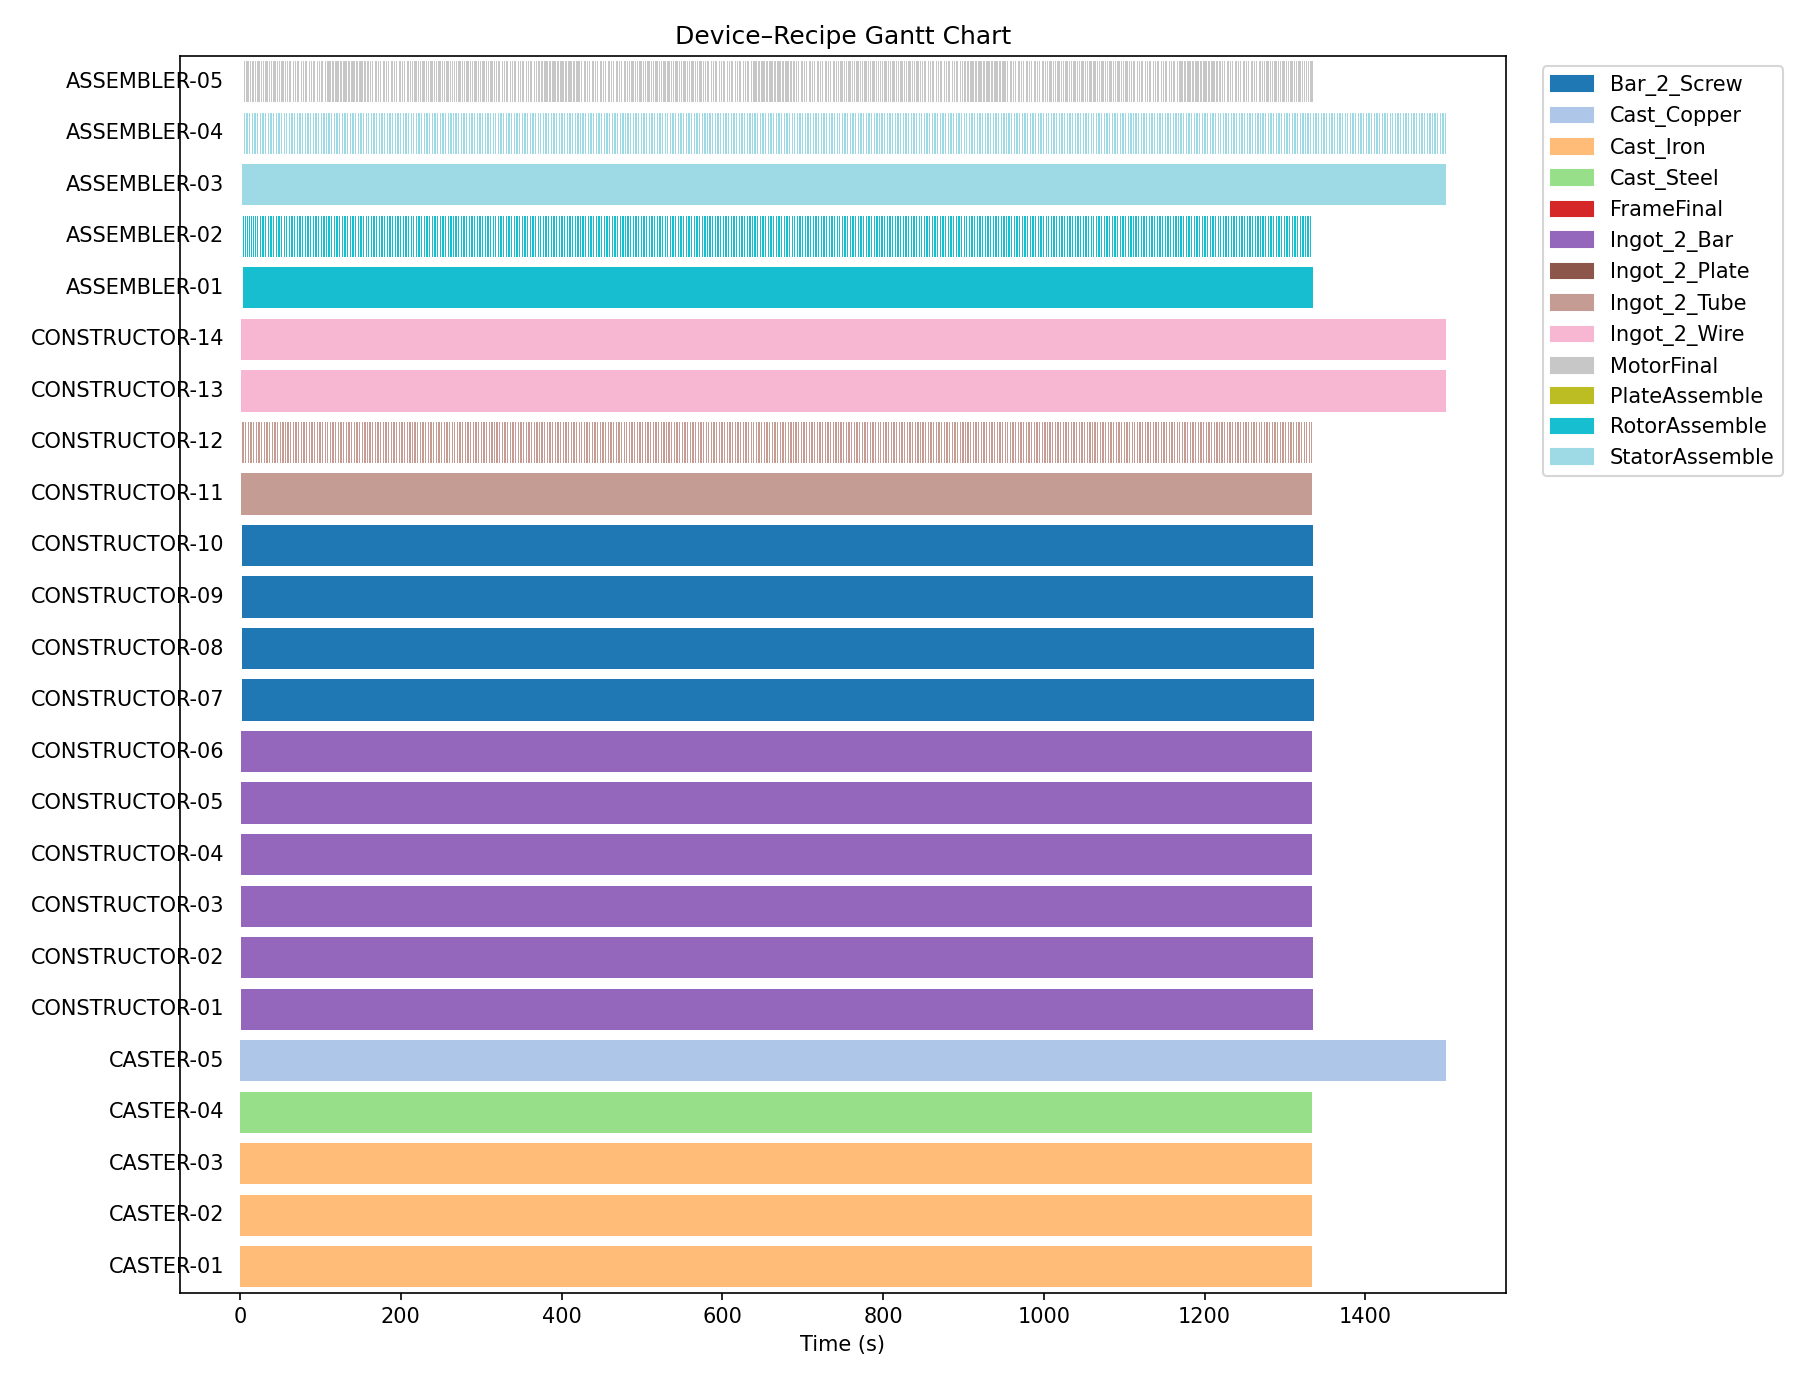
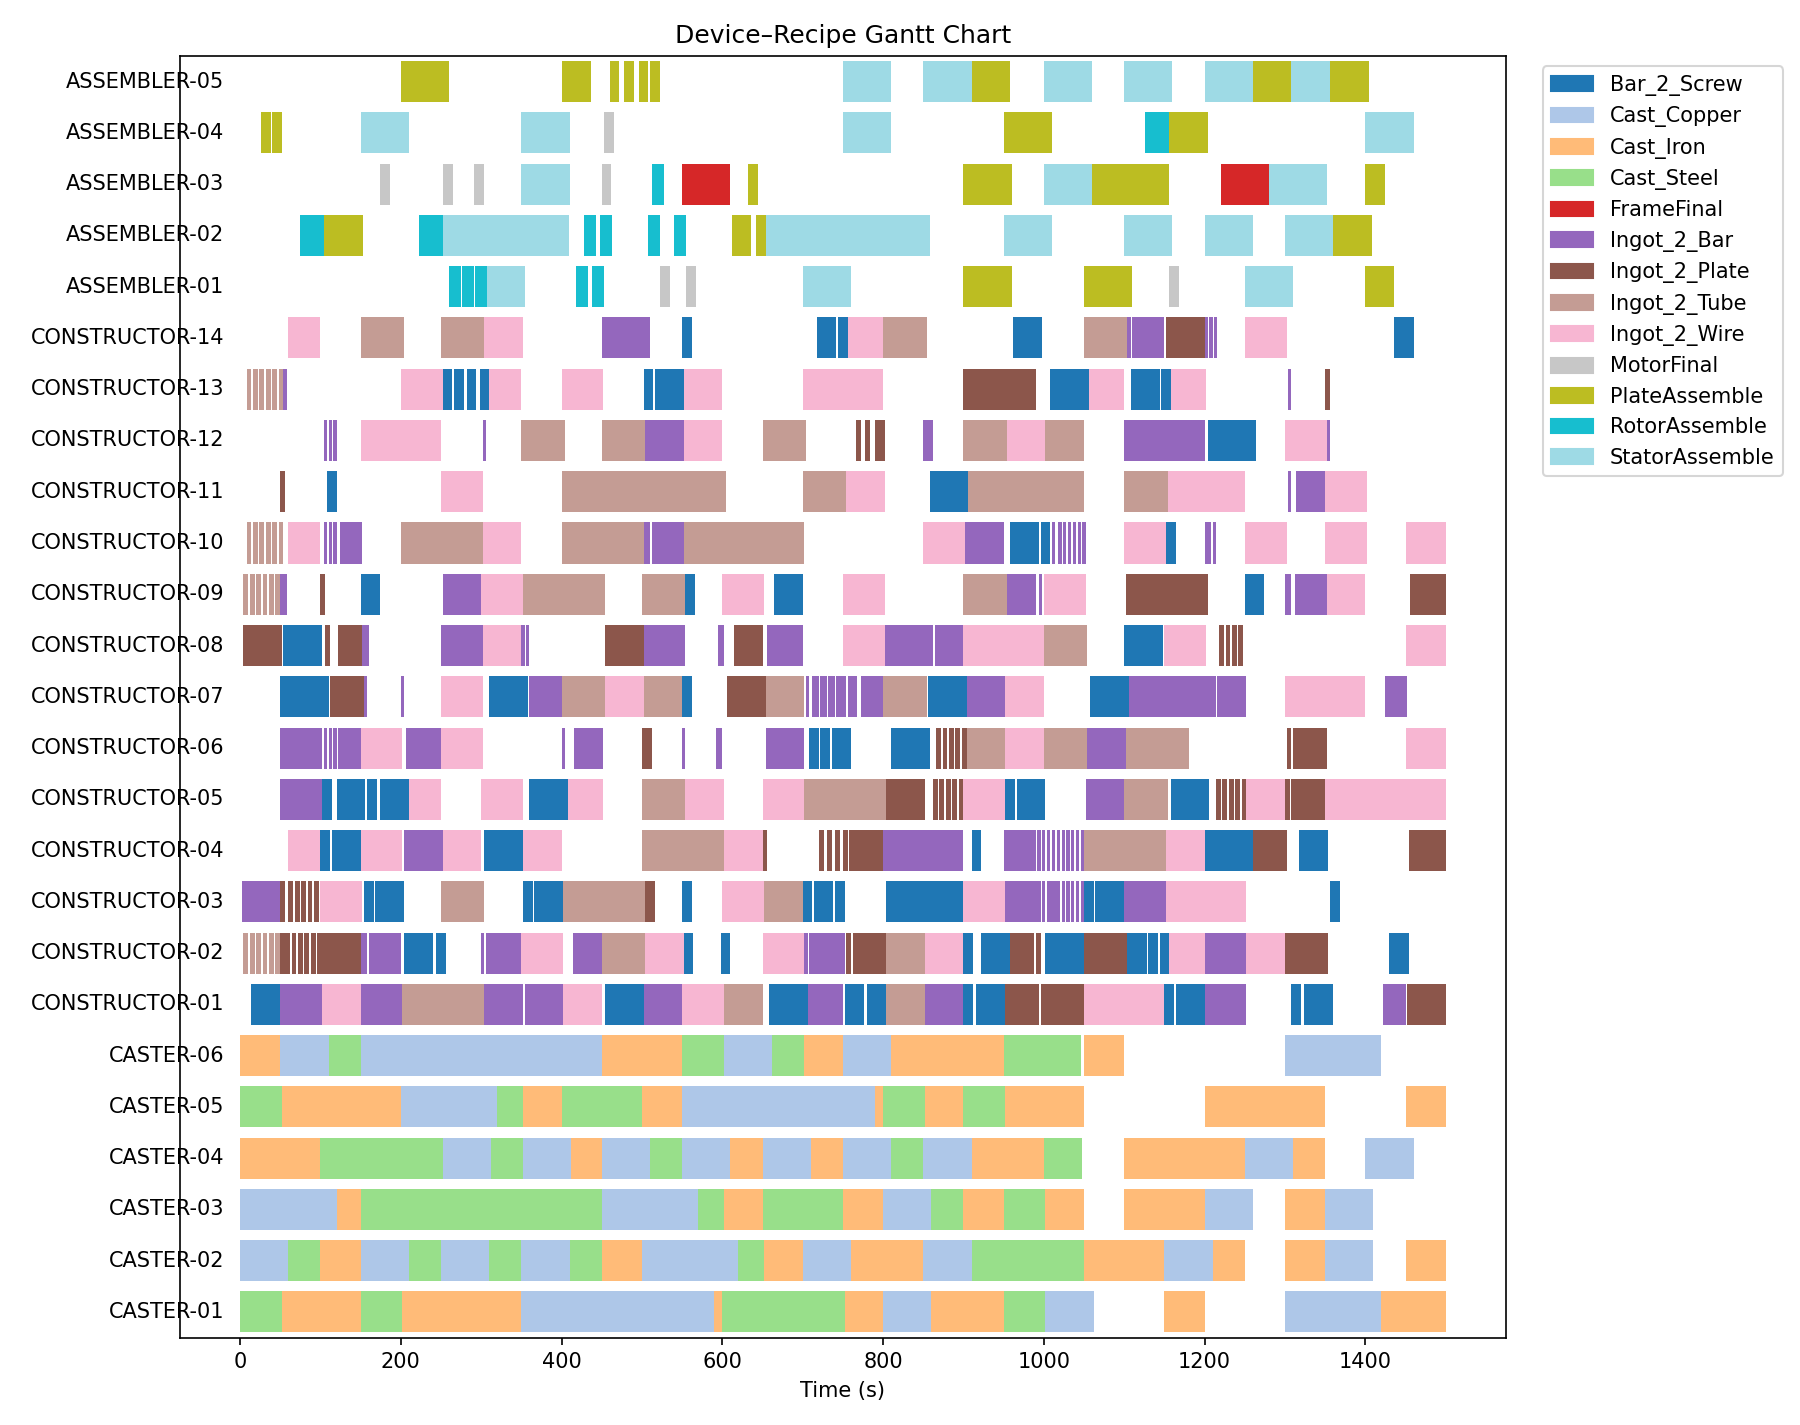
随机调度实现

diff --git a/pycode/factory_sim.py b/pycode/factory_sim.py
@@ -4,6 +4,7 @@ from typing import Literal
 
 from pycode.OrderManagerRuntime import OrderManagerRuntime
 from pycode.PriceManagerRuntime import PriceManagerRuntime
+from pycode.Scheduler import Scheduler
 from pycode.StockManagerRuntime import StockManagerRuntime
 from pycode.data_class import Device, Recipe
 from pycode.dev_runtime import DevState
@@ -35,7 +36,6 @@ class FactorySim:
         :param schedule_mode: 是否以调度方式启动。无调度意味着只要原料足够就开机运转。
         """
         """复制传入参数为属性"""
-        self.runtime_bind_of_device_id_and_rcp_name_dict = init_bind_of_device_id_and_rcp_name_dict
         self.schedule_mode = schedule_mode
         self.dt = dt
 
@@ -57,6 +57,11 @@ class FactorySim:
         self.price_mng = PriceManagerRuntime(init_price_name_and_spec_dict)
         # 运行时Order管理器
         self.order_mng = OrderManagerRuntime(init_order_list)
+        # Scheduler调度器
+        self.scheduler = Scheduler(
+            schedule_mode=schedule_mode,
+            bind_of_device_id_and_rcp_name_dict=init_bind_of_device_id_and_rcp_name_dict,
+        )
 
         # 字典，设备id -> Runtime obj
         self.dev_id_and_dev_runtime_dict = build_dict_of_dev_id_and_dev_runtime_obj(
@@ -81,43 +86,20 @@ class FactorySim:
         """历史记录管理器"""
         self.history_recorder = HistoryRecorder()
 
-    def apply_actions(self, action_dict: dict[str, str | None]):
-        """
-        action_dict: {device_id: recipe_name 或 'OFF' 或 None}, None表示这台机器维持原先的调度不作调整, 'OFF'关机
-        只有当设备处于 IDLE 且 action 指定了合法配方，才切换它的 recipe 属性。
-        """
-        assert action_dict is not None
-        for dev_id, act in action_dict.items():
-            dev_rt = self.dev_id_and_dev_runtime_dict.get(dev_id)
-            if (
-                    dev_rt is None
-                    or act is None
-                    or act == "OFF"  # TODO 不能在关机时不能调度
-                    or dev_rt.state is not DevState.IDLE  # TODO 不能只在IDLE状态才允许调度
-            ):
-                continue
-            # 验证这台设备类别允许做该配方
-            cat = dev_rt.device.category
-            if act not in self.dev_category_and_rcp_name_dict[cat]:
-                raise ValueError(f"{dev_id}({cat}) 不支持配方 {act}")
-            # 切到新配方
-            dev_rt.recipe = self.recipe_name_and_obj_dict[act]
-            # TODO devruntime里的配方也要改
-
     def record_dev_status(self):
         h = self.history_recorder
         # 设备运行状态与甘特
-        for dev_id, rt in self.dev_id_and_dev_runtime_dict.items():
-            h.log_vector("dev_state", dev_id, rt.state.name)
+        for dev_id, dev_rt in self.dev_id_and_dev_runtime_dict.items():
+            h.log_vector("dev_state", dev_id, dev_rt.state.name)
             h.log_vector(
                 "gantt",
                 dev_id,
-                rt.recipe.name
-                if rt.state is DevState.RUNNING
+                dev_rt.bind_recipe.name
+                if dev_rt.state is DevState.RUNNING
                 else None
             )
-
     # ----- main loop -------------------------------------------------------- --
+
     def record_step_status_without_dev(self):
         h = self.history_recorder
         h.log_scalar("time", self.clock)
@@ -156,13 +138,6 @@ class FactorySim:
         return (f"[t={self.clock:4}s] stock({sums}) | devs({devs}) | "
                 f"energy={self.total_energy_kwh_used:,.2f} kWh")
 
-    def do_schedule(self, action_dict: dict | None):
-        """决定本次step的所有设备的状态"""
-        if self.schedule_mode == "greedy":
-            pass
-        else:
-            self.apply_actions(action_dict)
-
     # ----- reporting -------------------------------------------------------- --
     def run_one_step_after_schedule(self):
         if self.clock == 59:
@@ -181,7 +156,7 @@ class FactorySim:
         for dev_rt in self.dev_id_and_dev_runtime_dict.values():
             if dev_rt.state is DevState.RUNNING:
                 # 本步消耗 = 功率(kW)×(dt秒 ÷ 3600秒/时)
-                self.step_energy_kwh_used += dev_rt.recipe.power_kw * (self.dt / 3600)
+                self.step_energy_kwh_used += dev_rt.bind_recipe.power_kw * (self.dt / 3600)
 
         # tick all devices，用 dt 推进
         for dev_rt in self.dev_id_and_dev_runtime_dict.values():
@@ -215,8 +190,12 @@ class FactorySim:
         # 所有步累计余额变化
         self.total_balance += self.step_balance
 
-    def do_schedule_and_run_for_this_step(self, action_dict: dict | None):
-        self.do_schedule(action_dict=action_dict)
+    def do_schedule_and_run_for_this_step(self):
+        self.scheduler.do_schedule(
+            dev_id_and_dev_runtime_dict=self.dev_id_and_dev_runtime_dict,
+            dev_category_and_rcp_name_dict=self.dev_category_and_rcp_name_dict,
+            recipe_name_and_obj_dict=self.recipe_name_and_obj_dict,
+        )
         self.run_one_step_after_schedule()
         self.check_out_money()
         self.record_step_status_without_dev()

diff --git a/pycode/Scheduler.py b/pycode/Scheduler.py
@@ -1,0 +1,92 @@
+import copy
+import random
+
+from pycode.dev_runtime import DevState
+
+
+class Scheduler:
+    def __init__(
+            self,
+            schedule_mode,
+            bind_of_device_id_and_rcp_name_dict: dict | None,
+    ):
+        self.schedule_mode = schedule_mode
+        # 以bind_of_device_id_and_rcp_name_dict，生成schedule的模板
+        self.schedule: dict | None = bind_of_device_id_and_rcp_name_dict
+        self.runtime_bind_of_device_id_and_rcp_name_dict = copy.copy(
+            bind_of_device_id_and_rcp_name_dict
+        )
+
+        self.tst_cnt = 0
+
+    def do_schedule(
+            self,
+            dev_id_and_dev_runtime_dict,
+            dev_category_and_rcp_name_dict,
+            recipe_name_and_obj_dict,
+    ):
+        """决定本次step的所有设备的状态
+        action_dict: {device_id: recipe_name 或 None}, None表示这台机器维持原先的调度不作调整
+        只有当设备处于 IDLE 且 action 指定了合法配方，才切换它的 recipe 属性。
+        """
+        if self.schedule_mode == "greedy":
+            pass
+        elif self.schedule_mode == "manual":
+            assert self.schedule is not None
+
+            # TODO
+            self.tst_change_schedule(
+                dev_category_and_rcp_name_dict=dev_category_and_rcp_name_dict,
+                dev_id_and_dev_runtime_dict=dev_id_and_dev_runtime_dict,
+            )
+
+            for dev_id, dev_schedule in self.schedule.items():
+                dev_rt = dev_id_and_dev_runtime_dict.get(dev_id)
+
+                if (
+                        dev_schedule is None  # 说明不需要更改调度
+                        or dev_rt.state
+                        is not DevState.IDLE  # 如果还在生产上一个配方，则不能更改调度
+                ):
+                    continue
+
+                # 验证这台设备类别允许做该配方
+                dev_category = dev_rt.device.category
+                if dev_schedule not in dev_category_and_rcp_name_dict[dev_category]:
+                    raise ValueError(
+                        f"{dev_id}({dev_category}) 不支持配方 {dev_schedule}"
+                    )
+
+                # 切到新配方，但不修改设备运行状态，由之后的tick()做
+                # 因为是否能实际运行该配方，还取决于需求的材料是否有足够库存，这一点将由tick()检查
+                dev_rt.bind_recipe = recipe_name_and_obj_dict[
+                    dev_schedule
+                ]  # 修改dev runtime的recipe属性
+                self.runtime_bind_of_device_id_and_rcp_name_dict[dev_id] = dev_schedule
+        else:
+            raise ValueError
+
+    def tst_change_schedule(
+            self,
+            dev_category_and_rcp_name_dict,
+            dev_id_and_dev_runtime_dict,
+    ):
+        """
+        {'ASSEMBLER-01': 'RotorAssemble', 'ASSEMBLER-02': 'RotorAssemble', 'ASSEMBLER-03': 'StatorAssemble',
+        'ASSEMBLER-04': 'StatorAssemble', 'ASSEMBLER-05': 'MotorFinal', 'CASTER-01': 'Cast_Iron', 'CASTER-02':
+        'Cast_Iron', 'CASTER-03': 'Cast_Iron', 'CASTER-04': 'Cast_Steel', 'CASTER-05': 'Cast_Steel', 'CASTER-06':
+        'Cast_Copper', 'CONSTRUCTOR-01': 'Ingot_2_Bar', 'CONSTRUCTOR-02': 'Ingot_2_Bar', 'CONSTRUCTOR-03': 'Ingot_2_Bar',
+        'CONSTRUCTOR-04': 'Ingot_2_Bar', 'CONSTRUCTOR-05': 'Ingot_2_Bar', 'CONSTRUCTOR-06': 'Ingot_2_Bar',
+        'CONSTRUCTOR-07': 'Bar_2_Screw', 'CONSTRUCTOR-08': 'Bar_2_Screw', 'CONSTRUCTOR-09': 'Bar_2_Screw',
+        'CONSTRUCTOR-10': 'Bar_2_Screw', 'CONSTRUCTOR-11': 'Ingot_2_Tube', 'CONSTRUCTOR-12': 'Ingot_2_Tube',
+        'CONSTRUCTOR-13': 'Ingot_2_Wire', 'CONSTRUCTOR-14': 'Ingot_2_Wire'}
+        :param dev_category_and_rcp_name_dict:
+        :param dev_id_and_dev_runtime_dict:
+        :return:
+        """
+        if self.tst_cnt % 50 == 0:
+            for dev_id, dev_schedule in self.schedule.items():
+                dev_category = dev_id_and_dev_runtime_dict[dev_id].device.category
+                schedule_choices = dev_category_and_rcp_name_dict[dev_category]
+                self.schedule[dev_id] = random.choice(schedule_choices)
+        self.tst_cnt += 1

diff --git a/pycode/dev_runtime.py b/pycode/dev_runtime.py
@@ -14,7 +14,7 @@ class DevState(Enum):
 @dataclass
 class DevRuntime:
     device: Device
-    recipe: Recipe
+    bind_recipe: Recipe
     state: DevState = DevState.IDLE
     t_left: int = 0  # seconds remaining for current batch
 
@@ -24,7 +24,7 @@ class DevRuntime:
         if self.state is DevState.RUNNING:
             return False
         # 如果所需材料库存不够，也不能开始生产
-        for material, need_quantity in self.recipe.inputs.items():
+        for material, need_quantity in self.bind_recipe.inputs.items():
             if runtime_stock_manager.get_obj_by_name(material).quantity < need_quantity:
                 return False
         # 其他情况，判断可以开始生产
@@ -32,16 +32,16 @@ class DevRuntime:
 
     def start_batch(self, runtime_stock_manager: StockManagerRuntime):
         # 标记一次生产开始，消耗库存开始生产
-        for m, q in self.recipe.inputs.items():
+        for m, q in self.bind_recipe.inputs.items():
             runtime_stock_manager.get_obj_by_name(m).quantity -= q
         self.state = DevState.RUNNING
-        self.t_left = self.recipe.cycle_time
+        self.t_left = self.bind_recipe.cycle_time
 
     def tick(self, runtime_stock_manager: StockManagerRuntime, dt: int):
         """推进 dt 秒；若生产结束（t_left≤0），产出并切到 FINISHED。"""
         if self.state is DevState.RUNNING:
             self.t_left -= dt
             if self.t_left <= 0:
-                for material, produce_quantity in self.recipe.outputs.items():
+                for material, produce_quantity in self.bind_recipe.outputs.items():
                     runtime_stock_manager.get_obj_by_name(material).quantity += produce_quantity
                 self.state = DevState.IDLE

diff --git a/pycode/main_entry.py b/pycode/main_entry.py
@@ -26,12 +26,12 @@ def main_entry():
         init_price_name_and_spec_dict=INIT_PRICE_NAME_AND_SPEC_DICT,
         init_order_list=INIT_ORDER_LIST,
         init_money=INIT_MONEY,
-        schedule_mode="greedy",
+        schedule_mode="manual",
         dt=1,
     )
 
     for _ in range(sim_time):
-        factory_sim.do_schedule_and_run_for_this_step(action_dict=None)
+        factory_sim.do_schedule_and_run_for_this_step()
         if factory_sim.clock % print_every == 0:
             print(factory_sim.snapshot())
 

diff --git a/pycode/factory_env.py b/pycode/factory_env.py
@@ -47,6 +47,6 @@ class FactoryEnv:
             "stock": dict(self.sim.stock),
             "device_state": {d: rt.state.name
                              for d, rt in self.sim.dev_id_and_dev_runtime_dict.items()},
-            "current_recipe": {d: rt.recipe.name
+            "current_recipe": {d: rt.bind_recipe.name
                                for d, rt in self.sim.dev_id_and_dev_runtime_dict.items()},
         }
